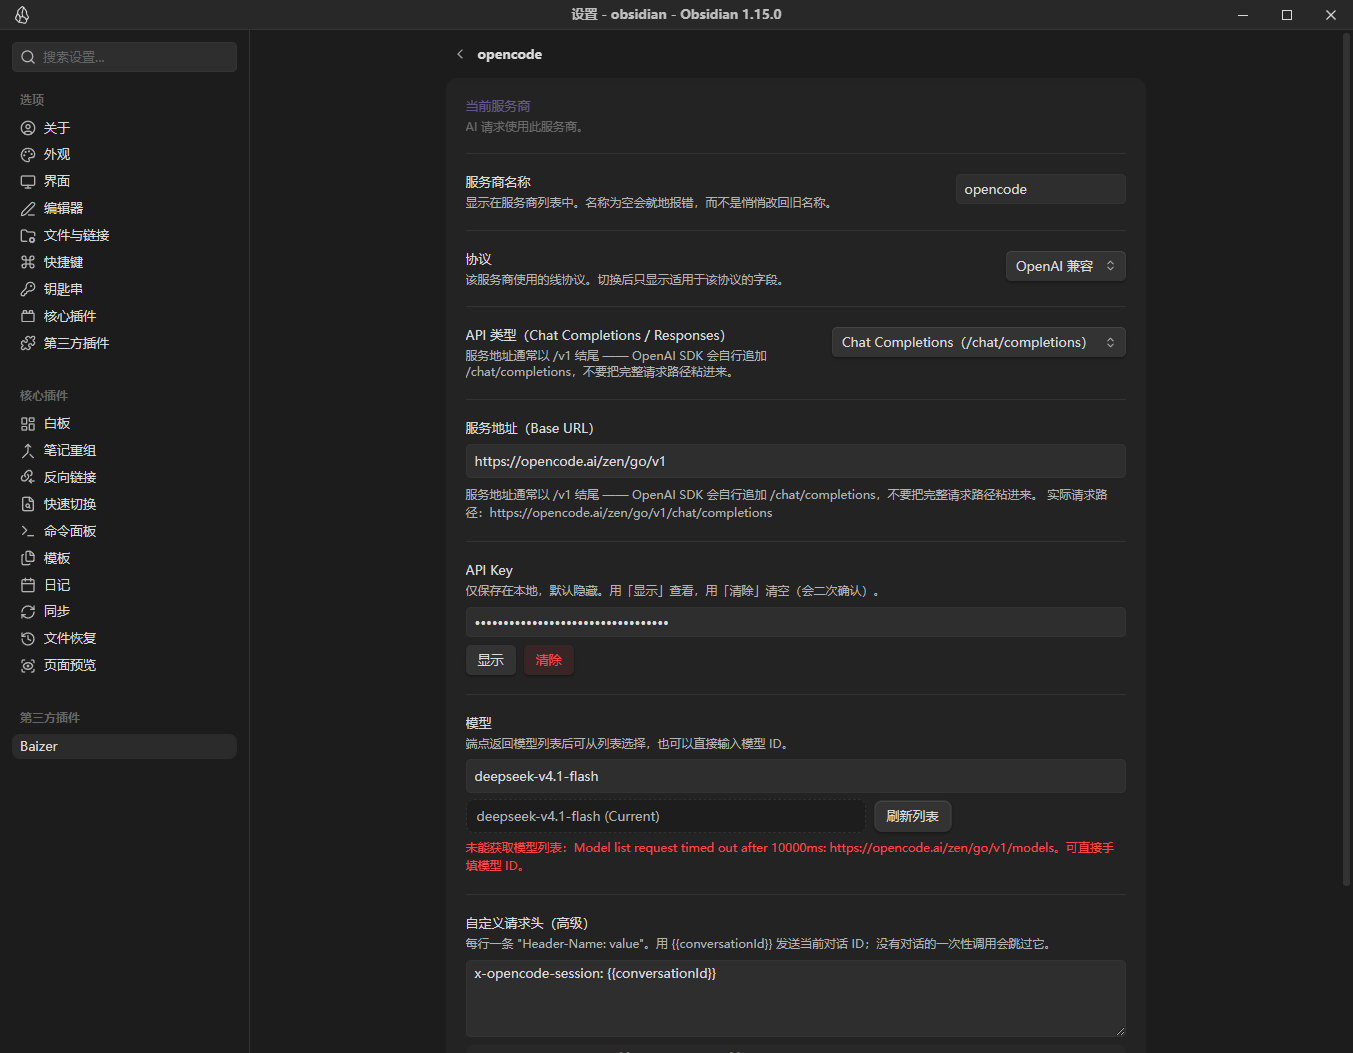
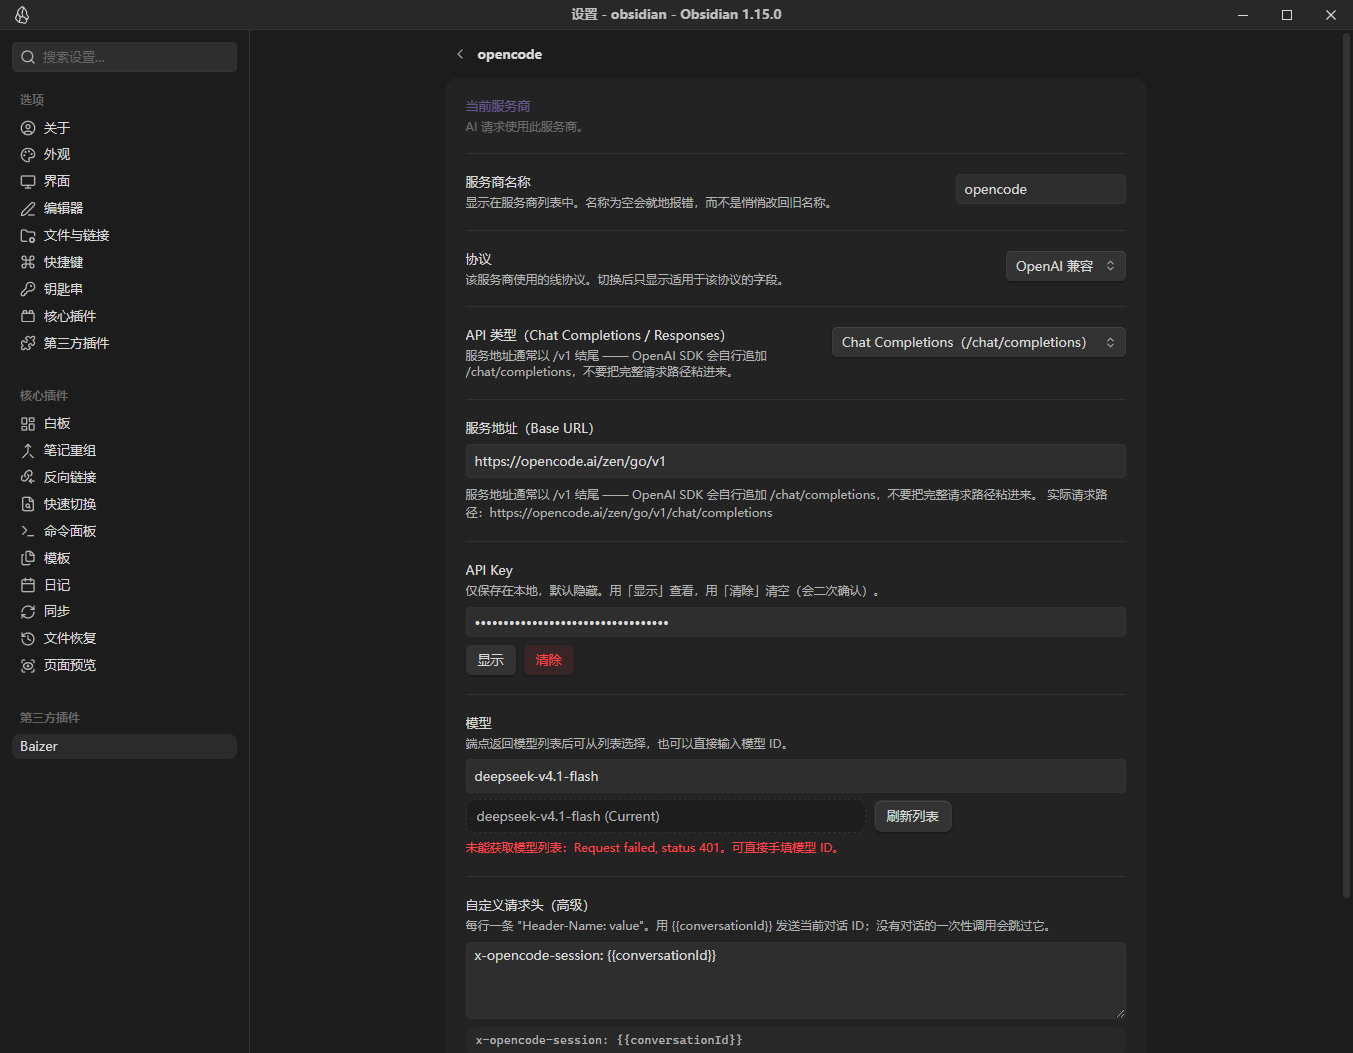
fix(settings): 同步 main 的 !important/:has 清理，解决 CSS 冲突（#91）
main 的 #103 已把 styles.css 里的 !important 与 :has() 全部移除；本分支的
styles.css 基于旧 main，含这些老规则，导致 PR #106 冲突。

- 以 main（45bf8c7）的 styles.css 为基线重新合并：保留本分支的声明式设置页样式
  （baizer-setting-stacked、权限摘要/记忆浏览规则），再跑一次死规则清理
- 合并后 styles.css：0 处 !important、0 处 :has()、括号平衡
- 重新采集 After 截图（同一场景/视口/主题/语言）并更新 OCR 对比报告

Changed region(s): [[0.3415, 0.8205, 0.7761, 0.9421], [0.4346, 0.7901, 0.8071, 0.8205], [0.3725, 0.9725, 0.5588, 1.0]]

diff --git a/styles.css b/styles.css
@@ -3,25 +3,32 @@
    ========================================================================== */
 
 .baizer-hidden {
-    display: none !important;
+    display: none;
 }
 
-/* Fix Obsidian parent containers to enable flexbox layout */
-.workspace-leaf-content:has(.baizer-shell-view) {
-    display: flex !important;
-    flex-direction: column !important;
+/* 带自身 display 声明的元素(同特异性、源码靠后会覆盖上面的 .baizer-hidden),在此补一条同类叠加规则。 */
+.shell-unread-bar.baizer-hidden {
+    display: none;
 }
 
-.workspace-leaf-content:has(.baizer-shell-view)>.view-content {
-    display: flex !important;
-    flex-direction: column !important;
-    flex: 1 !important;
+/* Fix Obsidian parent containers to enable flexbox layout.
+   Obsidian 给每个 leaf 的 .workspace-leaf-content 写入 data-type=<视图类型>,
+   直接按它命中 Baizer 视图,不再用父选择器向下反查子元素。 */
+.workspace-leaf-content[data-type="baizer-shell-view"] {
+    display: flex;
+    flex-direction: column;
+}
+
+.workspace-leaf-content[data-type="baizer-shell-view"] > .view-content {
+    display: flex;
+    flex-direction: column;
+    flex: 1;
 }
 
 .baizer-shell-view {
-    display: flex !important;
-    flex-direction: column !important;
-    height: 100% !important;
+    display: flex;
+    flex-direction: column;
+    height: 100%;
     width: 100%;
     overflow: hidden;
     /* 背景与字体统一由下方 `Refined Sidebar System` 段的 `.baizer-shell-view` 变量块接管
@@ -493,7 +500,12 @@ textarea.shell-input {
     overflow-y: auto;
     min-height: 80px;
     max-height: 200px;
-    box-shadow: none !important;
+    box-shadow: none;
+}
+
+/* Obsidian 对 textarea 的 :focus/:active 会补 box-shadow,这里用 :is() 叠加伪类特异性来压住。 */
+.baizer-shell-view textarea.shell-input:is(:hover, :focus, :focus-visible, :active) {
+    box-shadow: none;
 }
 
 textarea.shell-input::placeholder {
@@ -641,9 +653,9 @@ textarea.shell-input::placeholder {
 
 /* 去掉 CodeMirror 给 gutter 单元格(尤其当前行 activeLineGutter)的矩形背景高亮,
    否则圆形呼吸灯背后会透出一层深色方块。 */
-.guardian-gutter .cm-gutterElement,
-.guardian-gutter .cm-activeLineGutter {
-    background: transparent !important;
+.cm-editor .guardian-gutter .cm-gutterElement,
+.cm-editor .guardian-gutter .cm-activeLineGutter {
+    background: transparent;
 }
 
 .guardian-gutter-marker {
@@ -705,12 +717,12 @@ textarea.shell-input::placeholder {
 
 /* 注:guardian-pulse-slow 曾用于 idle/paused 呼吸,现两态改为静态,keyframe 已删(死代码)。 */
 
-.cm-line .guardian-ghost-text,
+.cm-editor .cm-content .cm-line .guardian-ghost-text,
 .guardian-ghost-text {
-    /* color/background 保留 !important:CM6 的 .cm-content 与语法高亮/选区层会强制这两项,
-       非 !important 顶不过。其余属性 CM 不设默认值,靠 .cm-line 后代特异性即可生效。 */
-    color: var(--color-green) !important;
-    background: color-mix(in srgb, var(--color-green) 15%, transparent) !important;
+    /* CM6 的 .cm-content 与语法高亮/选区层会设置 color/background;
+       用 .cm-editor .cm-content .cm-line 后代链抬高特异性压过它们。 */
+    color: var(--color-green);
+    background: color-mix(in srgb, var(--color-green) 15%, transparent);
     padding: 0 4px;
     border-radius: 3px;
     font-style: italic;
@@ -1055,10 +1067,6 @@ textarea.shell-input::placeholder {
     font-family: var(--font-interface);
     transition: opacity var(--baizer-transition-base);
     z-index: 5;
-}
-
-.shell-apply-btn:hover {
-    opacity: 1 !important;
 }
 
 /* Diff Modal */
@@ -2978,14 +2986,10 @@ textarea.shell-input {
 }
 
 
-.modal:has(.baizer-diff-modal) {
-    width: min(760px, calc(100vw - 56px));
-    max-width: min(760px, calc(100vw - 56px));
-}
-
-.baizer-diff-modal {
-    width: min(720px, calc(100vw - 72px)) !important;
-    height: auto !important;
+/* 叠加 .modal-content 类名,特异性高于 Obsidian 自带的 .modal-content 尺寸规则。 */
+.modal-content.baizer-diff-modal {
+    width: min(720px, calc(100vw - 72px));
+    height: auto;
     max-height: calc(100dvh - 96px);
     display: flex;
     flex-direction: column;
@@ -3049,8 +3053,8 @@ textarea.shell-input {
 }
 
 .baizer-diff-pane-code {
-    min-height: 84px !important;
-    max-height: min(24dvh, 190px) !important;
+    min-height: 84px;
+    max-height: min(24dvh, 190px);
 }
 
 .baizer-diff-empty {
@@ -3109,9 +3113,9 @@ textarea.shell-input {
 }
 
 @media (max-width: 700px) {
-    .modal:has(.baizer-diff-modal),
-    .baizer-diff-modal {
-        width: calc(100vw - 32px) !important;
+    .modal.baizer-diff-modal-window,
+    .modal-content.baizer-diff-modal {
+        width: calc(100vw - 32px);
         max-width: calc(100vw - 32px);
     }
 
@@ -3319,49 +3323,6 @@ textarea.shell-input {
     font-size: var(--font-smallest);
     white-space: pre-wrap;
     overflow-wrap: anywhere;
-}
-
-/* 声明式行里的全宽控件（render 回调）：name/desc 在上、控件独占一行，
-   长 Base URL / 多行 header / 模型选择器不再被原生右侧窄列压扁。 */
-.setting-item.baizer-setting-stacked {
-    flex-direction: column;
-    align-items: stretch;
-    gap: 8px;
-}
-
-.setting-item.baizer-setting-stacked .setting-item-info {
-    width: 100%;
-    margin-right: 0;
-}
-
-.setting-item.baizer-setting-stacked .setting-item-control {
-    width: 100%;
-    justify-content: flex-start;
-    flex-wrap: wrap;
-    text-align: start;
-}
-
-.setting-item.baizer-setting-stacked .setting-item-control input[type="text"],
-.setting-item.baizer-setting-stacked .setting-item-control input[type="password"],
-.setting-item.baizer-setting-stacked .setting-item-control textarea,
-.setting-item.baizer-setting-stacked .setting-item-control select {
-    width: 100%;
-    min-width: 0;
-}
-
-.setting-item.baizer-setting-stacked .baizer-settings-model-field {
-    width: 100%;
-    display: flex;
-    flex-direction: column;
-    gap: 6px;
-}
-
-.setting-item.baizer-setting-stacked .baizer-settings-header-example {
-    width: 100%;
-}
-
-.setting-item.baizer-setting-stacked .baizer-settings-summary-list {
-    width: 100%;
 }
 
 .baizer-settings-empty-state {
@@ -3968,23 +3929,26 @@ textarea.shell-input {
  * 尊重系统「减少动态效果」偏好:关闭所有持续动画(流式光标闪烁、思考/知识脉冲等),
  * 并把过渡压到几乎瞬时,避免前庭敏感用户被动画困扰。前庭安全:仅去动效,不改布局。 */
 @media (prefers-reduced-motion: reduce) {
-    .baizer-shell-view *,
-    .baizer-shell-view *::before,
-    .baizer-shell-view *::after,
-    .guardian-selection-tooltip *,
-    .baizer-attachment-modal *,
-    .baizer-settings-page *,
-    .baizer-settings-page *::before,
-    .baizer-settings-page *::after {
-        animation-duration: 0.001ms !important;
-        animation-iteration-count: 1 !important;
-        transition-duration: 0.001ms !important;
-        scroll-behavior: auto !important;
+    /* 过渡时长全部走 --baizer-transition-* 变量(未定义时回退到 120ms/200ms),
+       在各作用域根上把变量压到近乎瞬时,不必逐个后代覆写 transition-duration。 */
+    .baizer-shell-view,
+    .baizer-settings-page,
+    .baizer-attachment-modal,
+    .guardian-selection-tooltip {
+        --baizer-transition-fast: 0.001ms linear;
+        --baizer-transition-base: 0.001ms linear;
     }
 
-    /* 流式光标改为静态显示,不再闪烁。 */
-    .shell-stream-cursor {
-        animation: none !important;
+    .baizer-shell-view .shell-output-area {
+        scroll-behavior: auto;
+    }
+
+    /* 持续动画逐条关闭(流式光标、思考/知识脉冲、审批转圈);选择器与原规则同特异性,靠位置靠后生效。 */
+    .shell-stream-cursor,
+    .think-node.is-thinking::before,
+    .shell-knowledge-status-strip.is-processing,
+    .shell-approval-processing::before {
+        animation: none;
     }
 }
 
@@ -4075,6 +4039,49 @@ textarea.shell-input {
     position: absolute; right: 2px; bottom: 2px;
     width: 14px; height: 14px; cursor: nwse-resize; opacity: .5;
     background: linear-gradient(135deg, transparent 50%, var(--text-muted) 50%);
+}
+
+/* 声明式行里的全宽控件（render 回调）：name/desc 在上、控件独占一行，
+   长 Base URL / 多行 header / 模型选择器不再被原生右侧窄列压扁。 */
+.setting-item.baizer-setting-stacked {
+    flex-direction: column;
+    align-items: stretch;
+    gap: 8px;
+}
+
+.setting-item.baizer-setting-stacked .setting-item-info {
+    width: 100%;
+    margin-right: 0;
+}
+
+.setting-item.baizer-setting-stacked .setting-item-control {
+    width: 100%;
+    justify-content: flex-start;
+    flex-wrap: wrap;
+    text-align: start;
+}
+
+.setting-item.baizer-setting-stacked .setting-item-control input[type="text"],
+.setting-item.baizer-setting-stacked .setting-item-control input[type="password"],
+.setting-item.baizer-setting-stacked .setting-item-control textarea,
+.setting-item.baizer-setting-stacked .setting-item-control select {
+    width: 100%;
+    min-width: 0;
+}
+
+.setting-item.baizer-setting-stacked .baizer-settings-model-field {
+    width: 100%;
+    display: flex;
+    flex-direction: column;
+    gap: 6px;
+}
+
+.setting-item.baizer-setting-stacked .baizer-settings-header-example {
+    width: 100%;
+}
+
+.setting-item.baizer-setting-stacked .baizer-settings-summary-list {
+    width: 100%;
 }
 
 /* 声明式设置页的权限摘要与记忆浏览：这些规则原先只在注入的 fallback sheet 里，
